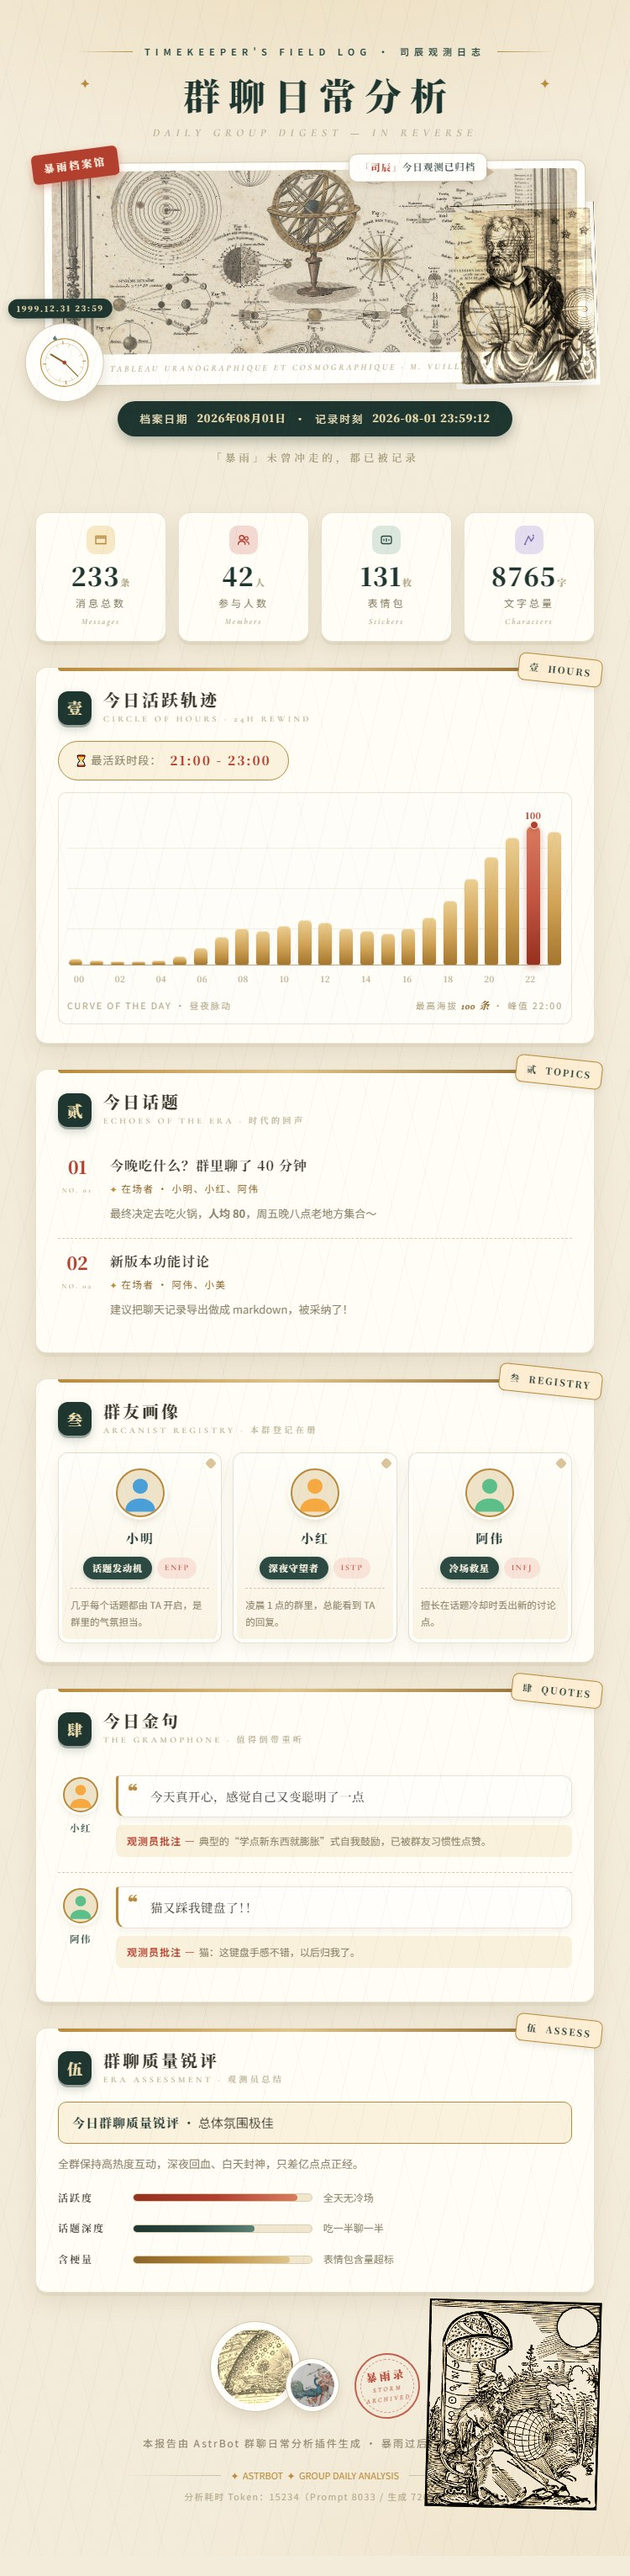
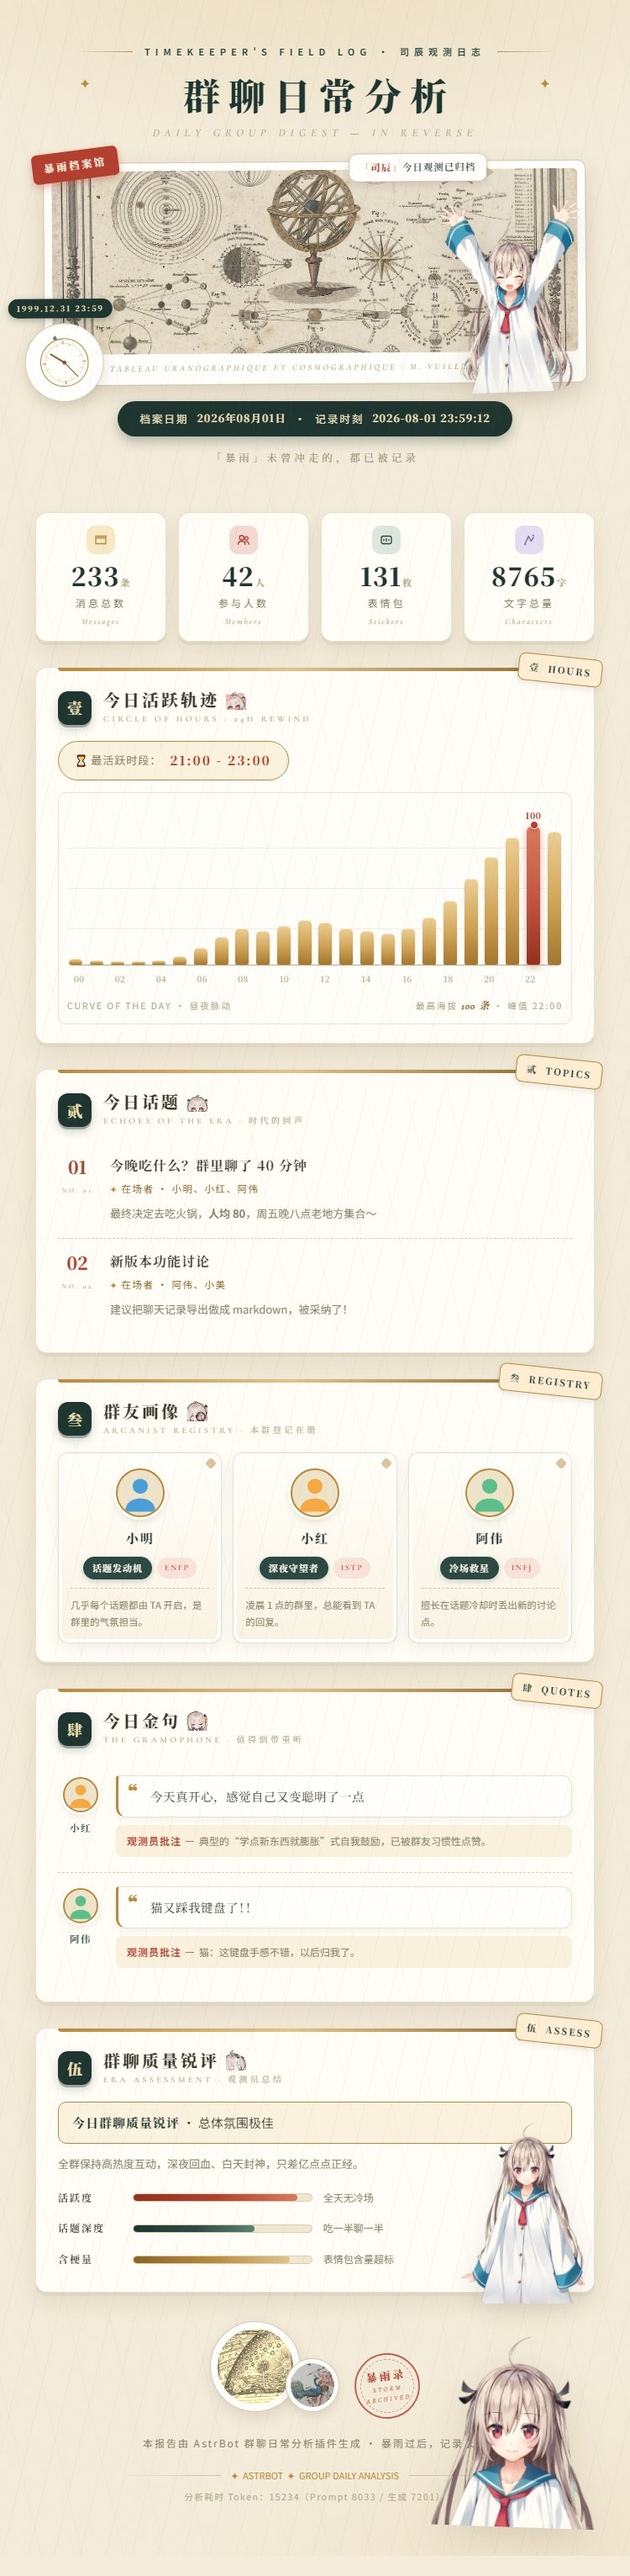
feat(gda_reverse_1999): 二次元立绘替换版画学者——对齐 ATRI 内置模板素材链路
- 头图立绘：atri1（举手欢呼，Atri 官方镜像 t2i_atri_font_mirror）
- 页脚探底：atri3（半身微笑）；质量锐评卡右下：atri4（站姿）
- 各区标题表情贴纸：爱心/可爱/观察/得意/疑惑（镜像 webp）
- 保留羊皮纸手账框架与 Wikimedia PD 古图（星图徽章/宇宙志主图）
- README 声明：立绘来自 Atri 镜像供自用，商用需替换授权素材
- generate_preview.py 预览时以本地副本替换镜像 URL；移除废弃版画

diff --git a/gda_reverse_1999/image_template.html b/gda_reverse_1999/image_template.html
@@ -204,16 +204,15 @@
             color: var(--ink-faint);
         }
 
-        /* 人物：1584 持浑天仪的天文学家版画（LOC，PD）—— multiply 直接印在纸上 */
+        /* 人物：亚托莉立绘（Atri 渲染服务官方镜像）——二次元透明底立绘 */
         .hero-character {
             position: absolute;
-            right: -14px;
-            bottom: -6px;
-            width: 172px;
+            right: 4px;
+            bottom: -12px;
+            width: 168px;
             z-index: 3;
             pointer-events: none;
-            mix-blend-mode: multiply;
-            filter: grayscale(1) sepia(0.45) contrast(1.22) brightness(1.1);
+            filter: drop-shadow(0 10px 18px rgba(93, 74, 40, 0.18));
             transform: rotate(-1.5deg);
         }
 
@@ -1065,6 +1064,13 @@
             color: rgba(179, 64, 47, 0.75);
         }
 
+        .footer .footer-art,
+        .footer .footer-art2,
+        .footer .seal {
+            position: relative;
+            z-index: 3;
+        }
+
         .footer-line {
             margin-top: 18px;
             font-size: 12px;
@@ -1101,23 +1107,42 @@
             background: linear-gradient(90deg, var(--line-strong), transparent);
         }
 
-        /* 页脚人物：丢勒《天文学家》木刻（PD）—— 右下角探底 */
+        /* 页脚人物：亚托莉立绘半身像（Atri 官方镜像）—— 右下角探底 */
         .footer .deco-char {
             position: absolute;
-            right: -8px;
-            bottom: -6px;
-            width: 210px;
-            z-index: 0;
+            right: -26px;
+            bottom: -26px;
+            width: 232px;
+            z-index: 2;
             pointer-events: none;
-            mix-blend-mode: multiply;
-            filter: grayscale(1) sepia(0.5) contrast(1.1) brightness(1.08);
-            transform: rotate(1.5deg);
+            filter: drop-shadow(0 14px 22px rgba(93, 74, 40, 0.16));
+            transform: rotate(2deg);
         }
 
         .footer .deco-char img {
             display: block;
             width: 100%;
             height: auto;
+        }
+
+        /* 区块小立绘（质量锐评卡右下） */
+        .block-char {
+            position: absolute;
+            right: 10px;
+            bottom: -14px;
+            width: 148px;
+            z-index: 1;
+            pointer-events: none;
+            opacity: 0.97;
+            filter: drop-shadow(0 10px 16px rgba(93, 74, 40, 0.14));
+        }
+
+        /* 标题表情贴纸 */
+        .sec-emoji {
+            width: 24px;
+            height: 24px;
+            vertical-align: -4px;
+            margin-left: 8px;
         }
     </style>
 </head>
@@ -1166,7 +1191,7 @@
                     </svg>
                 </div>
                 <div class="art-frame"></div>
-                <img class="hero-character" src="https://upload.wikimedia.org/wikipedia/commons/thumb/2/24/Astronomer_holding_instrument_LCCN2006691905.jpg/960px-Astronomer_holding_instrument_LCCN2006691905.jpg" alt="持浑天仪的天文学家">
+                <img class="hero-character" src="{{ t2i_atri_font_mirror }}/file/1775130626446_1774881312214_atri1.webp" alt="立绘">
                 <div class="art-caption">TABLEAU URANOGRAPHIQUE ET COSMOGRAPHIQUE · M. VUILLEMIN, 1852</div>
             </div>
 
@@ -1218,7 +1243,7 @@
             <div class="sec-head">
                 <div class="sec-no">壹</div>
                 <div>
-                    <div class="sec-title">今日活跃轨迹</div>
+                    <div class="sec-title">今日活跃轨迹<img class="sec-emoji" src="{{ t2i_atri_font_mirror }}/file/1775130605165_1774881270686_爱心.webp" alt=""></div>
                     <div class="sec-sub">CIRCLE OF HOURS &middot; 24H REWIND</div>
                 </div>
             </div>
@@ -1250,7 +1275,7 @@
 
         <!-- 页脚 -->
         <div class="footer">
-            <div class="deco-char avoid-break"><img src="https://upload.wikimedia.org/wikipedia/commons/3/3b/Durer_astronomer.jpg" alt="丢勒·天文学家"></div>
+            <div class="deco-char avoid-break"><img src="{{ t2i_atri_font_mirror }}/file/1775130613783_1774881310058_atri3.webp" alt="立绘"></div>
             <div class="footer-art avoid-break"><div class="art-disc"></div></div><div class="footer-art2 avoid-break"><div class="art-disc2"></div></div><div class="seal">暴雨录<span>STORM ARCHIVED</span></div>
             <div class="footer-line">本报告由 AstrBot 群聊日常分析插件生成 · 暴雨过后，记录永存</div>
             <div class="footer-orn">✦ &nbsp;ASTRBOT &nbsp;✦&nbsp; GROUP DAILY ANALYSIS</div>

diff --git a/gda_reverse_1999/html_template.html b/gda_reverse_1999/html_template.html
@@ -203,16 +203,15 @@
             color: var(--ink-faint);
         }
 
-        /* 人物：1584 持浑天仪的天文学家版画（LOC，PD）—— multiply 直接印在纸上 */
+        /* 人物：亚托莉立绘（Atri 渲染服务官方镜像）——二次元透明底立绘 */
         .hero-character {
             position: absolute;
-            right: -14px;
-            bottom: -6px;
-            width: 190px;
+            right: 4px;
+            bottom: -14px;
+            width: 186px;
             z-index: 3;
             pointer-events: none;
-            mix-blend-mode: multiply;
-            filter: grayscale(1) sepia(0.45) contrast(1.22) brightness(1.1);
+            filter: drop-shadow(0 10px 18px rgba(93, 74, 40, 0.18));
             transform: rotate(-1.5deg);
         }
 
@@ -1064,6 +1063,11 @@
             color: rgba(179, 64, 47, 0.75);
         }
 
+        .footer .footer-badges {
+            position: relative;
+            z-index: 3;
+        }
+
         .footer-line {
             margin-top: 18px;
             font-size: 12px;
@@ -1100,23 +1104,42 @@
             background: linear-gradient(90deg, var(--line-strong), transparent);
         }
 
-        /* 页脚人物：丢勒《天文学家》木刻（PD）—— 右下角探底 */
+        /* 页脚人物：亚托莉立绘半身像（Atri 官方镜像）—— 右下角探底 */
         .footer .deco-char {
             position: absolute;
-            right: -10px;
-            bottom: -8px;
-            width: 236px;
-            z-index: 0;
+            right: -30px;
+            bottom: -28px;
+            width: 262px;
+            z-index: 2;
             pointer-events: none;
-            mix-blend-mode: multiply;
-            filter: grayscale(1) sepia(0.5) contrast(1.1) brightness(1.08);
-            transform: rotate(1.5deg);
+            filter: drop-shadow(0 14px 22px rgba(93, 74, 40, 0.16));
+            transform: rotate(2deg);
         }
 
         .footer .deco-char img {
             display: block;
             width: 100%;
             height: auto;
+        }
+
+        /* 区块小立绘（质量锐评卡右下） */
+        .block-char {
+            position: absolute;
+            right: 10px;
+            bottom: -14px;
+            width: 150px;
+            z-index: 1;
+            pointer-events: none;
+            opacity: 0.97;
+            filter: drop-shadow(0 10px 16px rgba(93, 74, 40, 0.14));
+        }
+
+        /* 标题表情贴纸 */
+        .sec-emoji {
+            width: 24px;
+            height: 24px;
+            vertical-align: -4px;
+            margin-left: 8px;
         }
 
         /* ============ 响应式 ============ */
@@ -1227,7 +1250,7 @@
                     </svg>
                 </div>
                 <div class="art-frame"></div>
-                <img class="hero-character" src="https://upload.wikimedia.org/wikipedia/commons/thumb/2/24/Astronomer_holding_instrument_LCCN2006691905.jpg/960px-Astronomer_holding_instrument_LCCN2006691905.jpg" alt="持浑天仪的天文学家">
+                <img class="hero-character" src="{{ t2i_atri_font_mirror }}/file/1775130626446_1774881312214_atri1.webp" alt="立绘">
                 <div class="art-caption">TABLEAU URANOGRAPHIQUE ET COSMOGRAPHIQUE · M. VUILLEMIN, 1852</div>
             </div>
 
@@ -1279,7 +1302,7 @@
             <div class="sec-head">
                 <div class="sec-no">壹</div>
                 <div>
-                    <div class="sec-title">今日活跃轨迹</div>
+                    <div class="sec-title">今日活跃轨迹<img class="sec-emoji" src="{{ t2i_atri_font_mirror }}/file/1775130605165_1774881270686_爱心.webp" alt=""></div>
                     <div class="sec-sub">CIRCLE OF HOURS &middot; 24H REWIND</div>
                 </div>
             </div>
@@ -1311,7 +1334,7 @@
 
         <!-- 页脚 -->
         <div class="footer">
-            <div class="deco-char avoid-break"><img src="https://upload.wikimedia.org/wikipedia/commons/3/3b/Durer_astronomer.jpg" alt="丢勒·天文学家"></div>
+            <div class="deco-char avoid-break"><img src="{{ t2i_atri_font_mirror }}/file/1775130613783_1774881310058_atri3.webp" alt="立绘"></div>
             <div class="footer-badges avoid-break">
                 <div class="footer-art"><div class="art-disc"></div></div>
                 <div class="footer-art2"><div class="art-disc2"></div></div>

diff --git a/gda_reverse_1999/chat_quality_item.html b/gda_reverse_1999/chat_quality_item.html
@@ -3,10 +3,11 @@
 <div class="sec-head">
     <div class="sec-no">伍</div>
     <div>
-        <div class="sec-title">群聊质量锐评</div>
+        <div class="sec-title">群聊质量锐评<img class="sec-emoji" src="{{ t2i_atri_font_mirror }}/file/1775130581843_1774881262835_疑惑.webp" alt=""></div>
         <div class="sec-sub">ERA ASSESSMENT &middot; 观测员总结</div>
     </div>
 </div>
+<img class="block-char" src="{{ t2i_atri_font_mirror }}/file/1775130623112_1774881319340_atri4.webp" alt="" {% if hide_user_names %}style="opacity: 0.35;"{% endif %}>
 <div class="quality-summary head"><b>{{ title }}</b>{% if subtitle %} · {{ subtitle }}{% endif %}</div>
 {% endif %}
 {% if summary %}

diff --git a/gda_reverse_1999/user_title_item.html b/gda_reverse_1999/user_title_item.html
@@ -3,7 +3,7 @@
 <div class="sec-head">
     <div class="sec-no">叁</div>
     <div>
-        <div class="sec-title">群友画像</div>
+        <div class="sec-title">群友画像<img class="sec-emoji" src="{{ t2i_atri_font_mirror }}/file/1775130585446_1774881263342_观察.webp" alt=""></div>
         <div class="sec-sub">ARCANIST REGISTRY &middot; 本群登记在册</div>
     </div>
 </div>

diff --git a/gda_reverse_1999/quote_item.html b/gda_reverse_1999/quote_item.html
@@ -3,7 +3,7 @@
 <div class="sec-head">
     <div class="sec-no">肆</div>
     <div>
-        <div class="sec-title">今日金句</div>
+        <div class="sec-title">今日金句<img class="sec-emoji" src="{{ t2i_atri_font_mirror }}/file/1775130598778_1774881267181_得意.webp" alt=""></div>
         <div class="sec-sub">THE GRAMOPHONE &middot; 值得倒带重听</div>
     </div>
 </div>

diff --git a/gda_reverse_1999/topic_item.html b/gda_reverse_1999/topic_item.html
@@ -3,7 +3,7 @@
 <div class="sec-head">
     <div class="sec-no">贰</div>
     <div>
-        <div class="sec-title">今日话题</div>
+        <div class="sec-title">今日话题<img class="sec-emoji" src="{{ t2i_atri_font_mirror }}/file/1775130600453_1774881268554_可爱.webp" alt=""></div>
         <div class="sec-sub">ECHOES OF THE ERA &middot; 时代的回声</div>
     </div>
 </div>

diff --git a/generate_preview.py b/generate_preview.py
@@ -52,7 +52,7 @@ common = {
     "t2i_font_source": "Mainland",
     "t2i_google_fonts_mirror": "https://fonts.googleapis.com",
     "t2i_gstatic_mirror": "https://fonts.gstatic.com",
-    "t2i_atri_font_mirror": "",
+    "t2i_atri_font_mirror": "https://tc.ciallo.ccwu.cc",
 }
 sub_ctx = {
     "topics": [
@@ -154,6 +154,12 @@ preview_html = env.get_template("image_template.html").render(**main_ctx)
 # 模板中的 Wikimedia 直链在预览渲染时替换为本地副本（assets/<模板名>/art/），
 # 避免预览机 IP 被 Wikimedia 限流（429）导致截图缺少装饰图；模板文件本身仍引用直链。
 _ART_DIR = ROOT / "assets" / TPL_NAME / "art"
+_MIRROR = "https://tc.ciallo.ccwu.cc"
+
+def _m(file: str) -> str:
+    return f"{_MIRROR}/file/{file}"
+
+
 _ART_URLS = {
     "https://upload.wikimedia.org/wikipedia/commons/thumb/d/dd/FlammarionWoodcut.jpg/1280px-FlammarionWoodcut.jpg":
         _ART_DIR / "FlammarionWoodcut-1280px.jpg",
@@ -164,11 +170,14 @@ _ART_URLS = {
     ("https://upload.wikimedia.org/wikipedia/commons/thumb/8/84/Johan_Doppelmayr%27s_celestial_chart_of_Pavo_and_Indus_"
      "%28cropped%29.jpg/1280px-Johan_Doppelmayr%27s_celestial_chart_of_Pavo_and_Indus_%28cropped%29.jpg"):
         _ART_DIR / "Doppelmayr-Pavo-1280px.jpg",
-    ("https://upload.wikimedia.org/wikipedia/commons/thumb/2/24/"
-     "Astronomer_holding_instrument_LCCN2006691905.jpg/960px-Astronomer_holding_instrument_LCCN2006691905.jpg"):
-        _ART_DIR / "Astronomer-1584-960px.jpg",
-    "https://upload.wikimedia.org/wikipedia/commons/3/3b/Durer_astronomer.jpg":
-        _ART_DIR / "Durer-Astronomer.jpg",
+    _m("1775130626446_1774881312214_atri1.webp"): _ART_DIR / "atri1.webp",
+    _m("1775130613783_1774881310058_atri3.webp"): _ART_DIR / "atri3.webp",
+    _m("1775130623112_1774881319340_atri4.webp"): _ART_DIR / "atri4.webp",
+    _m("1775130600453_1774881268554_可爱.webp"): _ART_DIR / "at_kaiai.webp",
+    _m("1775130585446_1774881263342_观察.webp"): _ART_DIR / "at_guancha.webp",
+    _m("1775130581843_1774881262835_疑惑.webp"): _ART_DIR / "at_yihuo.webp",
+    _m("1775130598778_1774881267181_得意.webp"): _ART_DIR / "at_deyi.webp",
+    _m("1775130605165_1774881270686_爱心.webp"): _ART_DIR / "at_aixin.webp",
 }
 for url, local in _ART_URLS.items():
     if local.is_file() and url in preview_html:

diff --git a/README.md b/README.md
@@ -163,11 +163,14 @@ python generate_preview.py [模板名]     # 缺省为 gda_reverse_1999
   `https://upload.wikimedia.org/wikipedia/commons/thumb/d/dd/FlammarionWoodcut.jpg/1280px-FlammarionWoodcut.jpg`
 - **Doppelmayr 1730 孔雀座星图**（PD）—— 页脚第二枚小纪念章（`footer-art2`）：
   `https://upload.wikimedia.org/wikipedia/commons/thumb/8/84/Johan_Doppelmayr%27s_celestial_chart_of_Pavo_and_Indus_%28cropped%29.jpg/1280px-Johan_Doppelmayr%27s_celestial_chart_of_Pavo_and_Indus_%28cropped%29.jpg`
-- **持浑天仪的天文学家**（1584 版画，美国国会图书馆藏，PD）—— 头图主角「司辰」：
-  贴在镶框古图右缘、配对话气泡（`hero-character` / `hero-bubble`）：
-  `https://upload.wikimedia.org/wikipedia/commons/thumb/2/24/Astronomer_holding_instrument_LCCN2006691905.jpg/960px-Astronomer_holding_instrument_LCCN2006691905.jpg`
-- **丢勒《天文学家》木刻**（Albrecht Dürer，PD）—— 页脚右下角探底大立绘（`deco-char`）：
-  `https://upload.wikimedia.org/wikipedia/commons/3/3b/Durer_astronomer.jpg`
+
+> **二次元立绘（自用素材）**：人物立绘与表情贴纸来自 **Atri 渲染服务官方文件镜像**
+> （`t2i_atri_font_mirror`，默认 `https://tc.ciallo.ccwu.cc`，与内置 ATRI 模板同源）：
+> - `atri1.webp`（头图欢呼立绘）/ `atri3.webp`(页脚探底) / `atri4.webp`（质量锐评卡小立绘）
+> - `可爱/观察/疑惑/得意/爱心.webp`（各区标题表情贴纸）
+> 以上素材版权归原权利方所有，本仓库**仅供自用与演示**；如用于商业分发，
+> 请替换为已获得授权的立绘（README 声明：自用免责）。
+> 预览时 `generate_preview.py` 会把镜像地址替换为 `assets/<模板名>/art/` 下的本地副本。
 
 **人物用法**（对齐内置 ATRI / BlueArchive 模板的手法）：主角立绘以 `mix-blend-mode: multiply`
 直接「印」在羊皮纸卡上（版画白底与纸底融合，无需抠图），配 `filter: grayscale+sepia` 统一色调；
